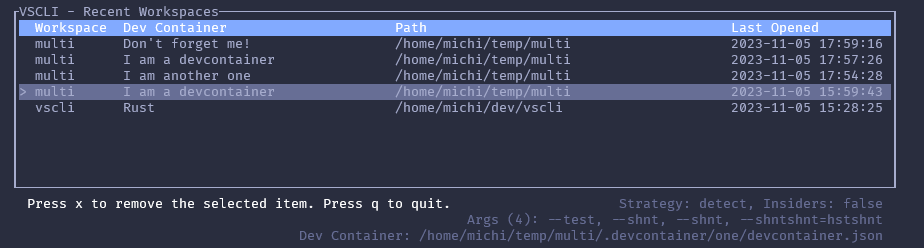
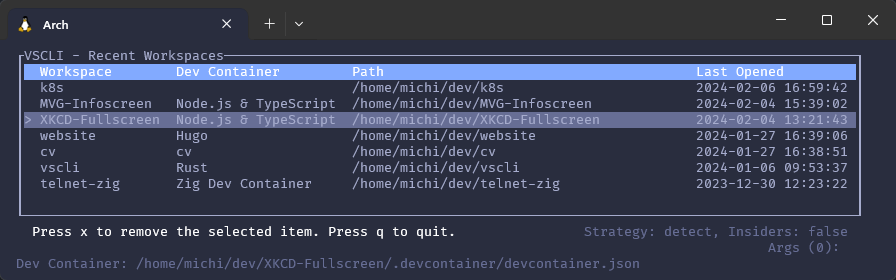
feat(readme): New screenshot and link to blog

diff --git a/README.md b/README.md
@@ -6,6 +6,8 @@ A CLI/TUI which makes it easy to launch [Visual Studio Code](https://code.visual
 
 ![Screenshot showing the recent UI feature.](.github/images/recent.png)
 
+Read [here](https://blog.lohr.dev/launching-dev-containers) about the journey of reverse engineering Microsoft's dev container CLI in order to make this.
+
 ## Features
 
 - A shorthand for launching vscode projects (to be used like the `code` command but with dev container support)
